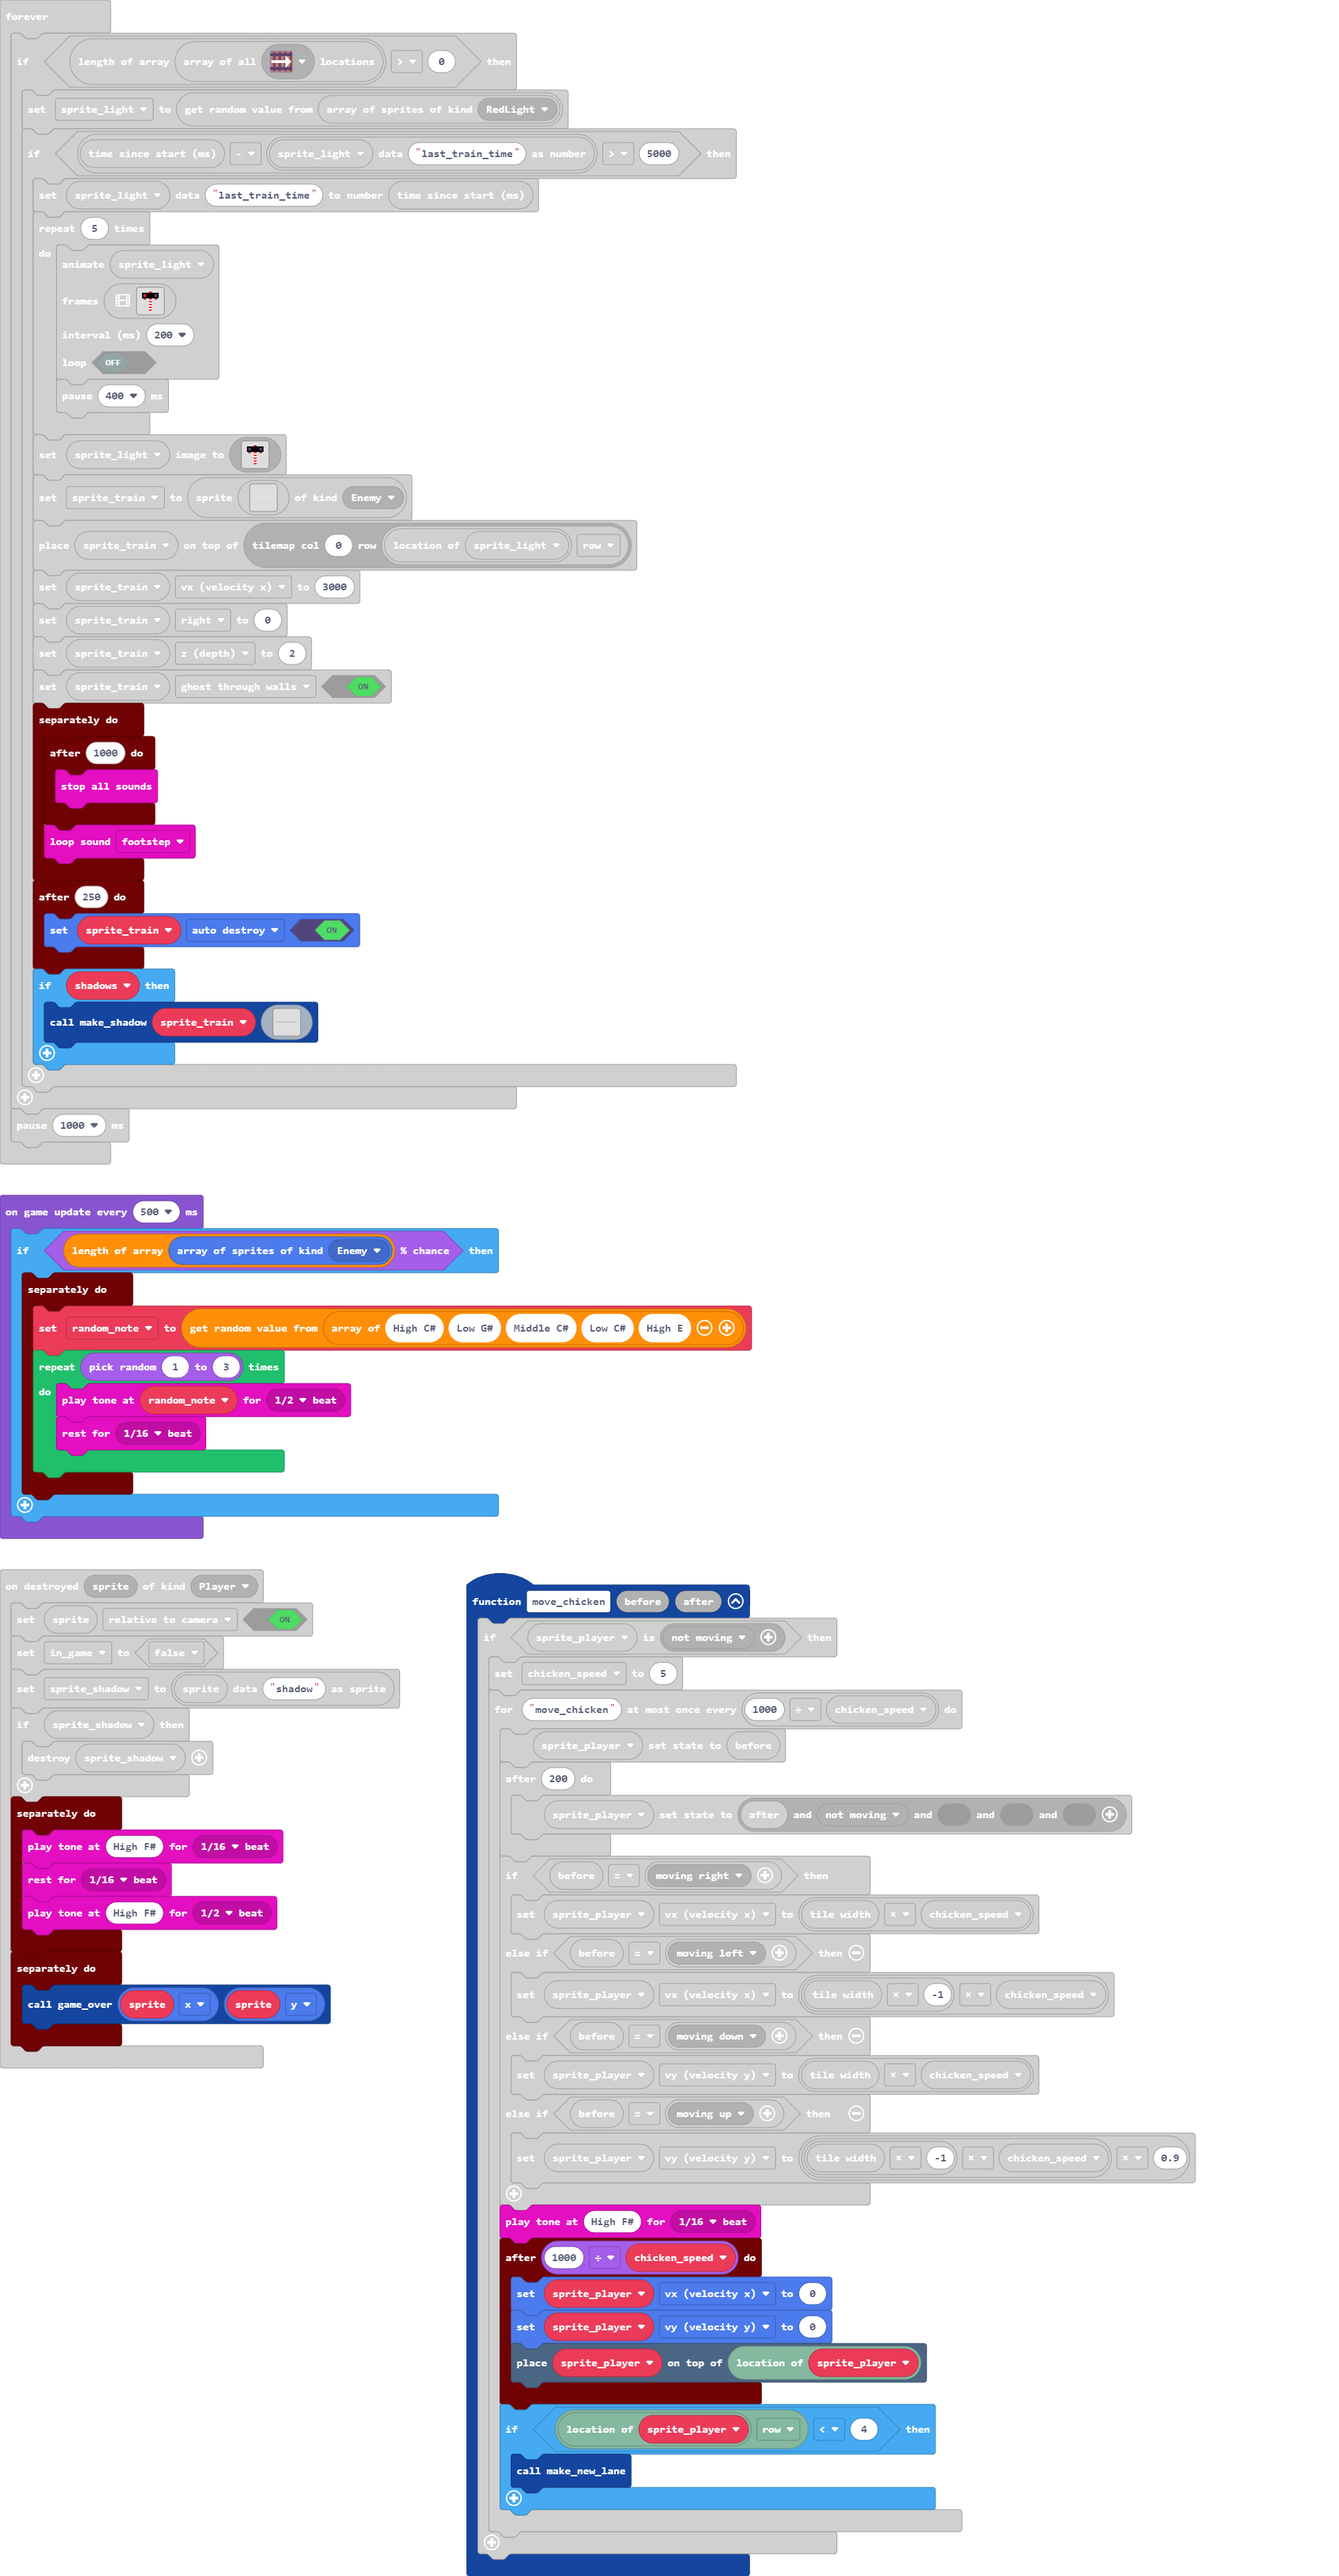
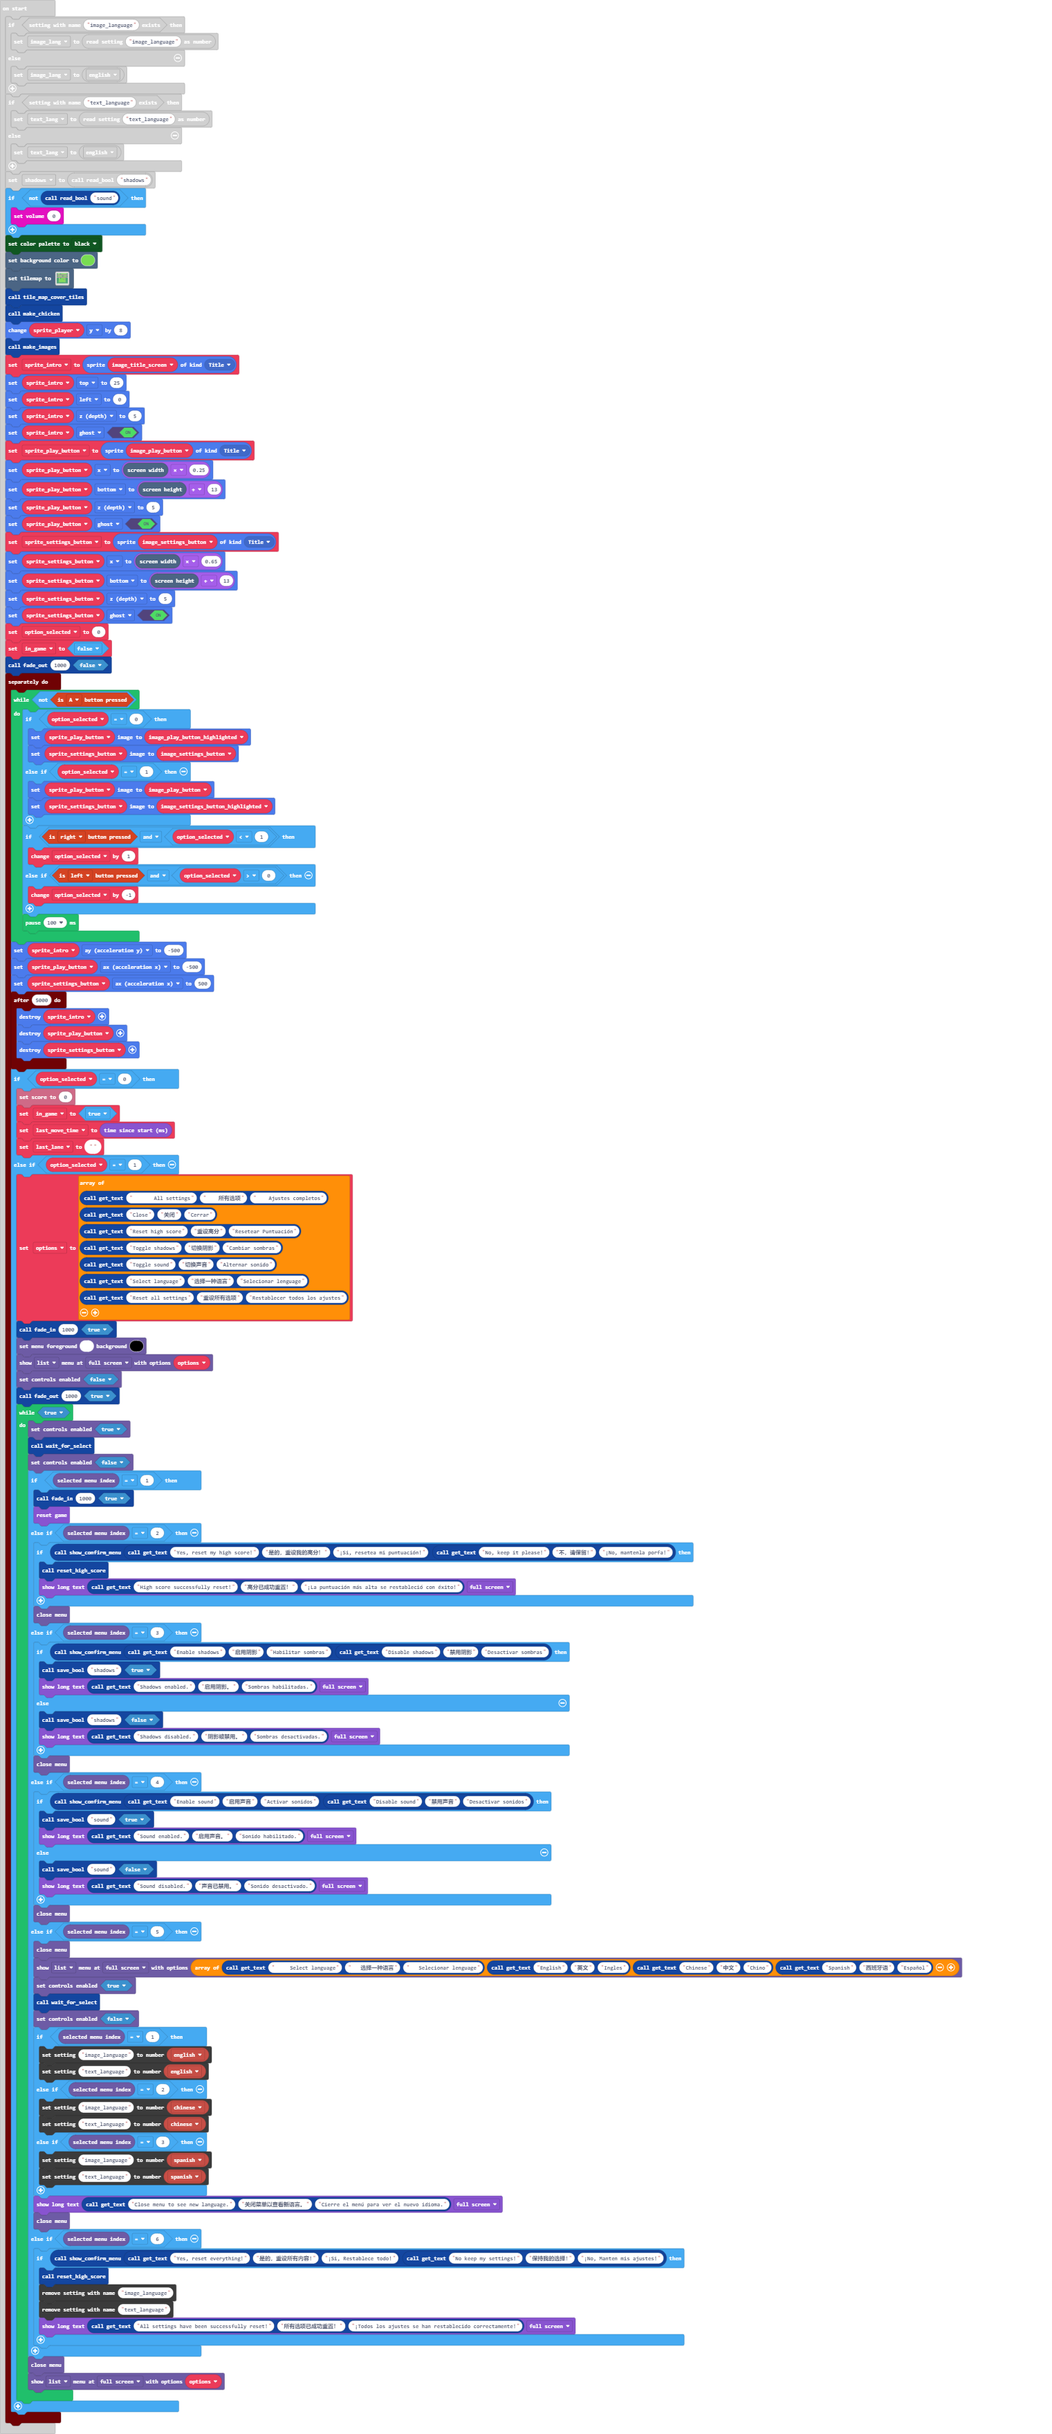
Can toggle sound in settings

diff --git a/main.ts b/main.ts
@@ -593,6 +593,9 @@ if (blockSettings.exists("text_language")) {
     text_lang = StrProp.english
 }
 shadows = read_bool("shadows")
+if (!(read_bool("sound"))) {
+    music.setVolume(0)
+}
 color.setPalette(
 color.Black
 )
@@ -655,6 +658,7 @@ timer.background(function () {
         get_text("Close", "关闭", "Cerrar"),
         get_text("Reset high score", "重设高分", "Resetear Puntuación"),
         get_text("Toggle shadows", "切换阴影", "Cambiar sombras"),
+        get_text("Toggle sound", "切换声音", "Alternar sonido"),
         get_text("Select language", "选择一种语言", "Selecionar lenguage"),
         get_text("Reset all settings", "重设所有选项", "Restablecer todos los ajustes")
         ]
@@ -686,6 +690,15 @@ timer.background(function () {
                 }
                 blockMenu.closeMenu()
             } else if (blockMenu.selectedMenuIndex() == 4) {
+                if (show_confirm_menu(get_text("Enable sound", "启用声音", "Activar sonidos"), get_text("Disable sound", "禁用声音", "Desactivar sonidos"))) {
+                    save_bool("sound", true)
+                    game.showLongText(get_text("Sound enabled.", "启用声音。", "Sonido habilitado."), DialogLayout.Full)
+                } else {
+                    save_bool("sound", false)
+                    game.showLongText(get_text("Sound disabled.", "声音已禁用。", "Sonido desactivado."), DialogLayout.Full)
+                }
+                blockMenu.closeMenu()
+            } else if (blockMenu.selectedMenuIndex() == 5) {
                 blockMenu.closeMenu()
                 blockMenu.showMenu([get_text("     Select language", "   选择一种语言", "   Selecionar lenguage"), get_text("English", "英文", "Ingles"), get_text("Chinese", "中文", "Chino"), get_text("Spanish", "西班牙语", "Español")], MenuStyle.List, MenuLocation.FullScreen)
                 blockMenu.setControlsEnabled(true)
@@ -703,7 +716,7 @@ timer.background(function () {
                 }
                 game.showLongText(get_text("Close menu to see new language.", "关闭菜单以查看新语言。", "Cierre el menú para ver el nuevo idioma."), DialogLayout.Full)
                 blockMenu.closeMenu()
-            } else if (blockMenu.selectedMenuIndex() == 5) {
+            } else if (blockMenu.selectedMenuIndex() == 6) {
                 if (show_confirm_menu(get_text("Yes, reset everything!", "是的，重设所有内容!", "¡Si, Restablece todo!"), get_text("No keep my settings!", "保持我的选择!", "¡No, Manten mis ajustes!"))) {
                     reset_high_score()
                     blockSettings.remove("image_language")
